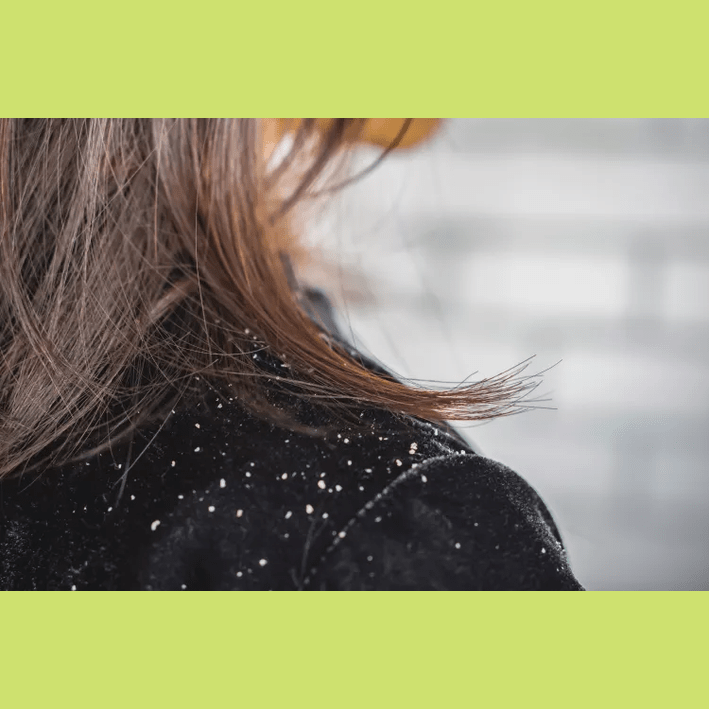
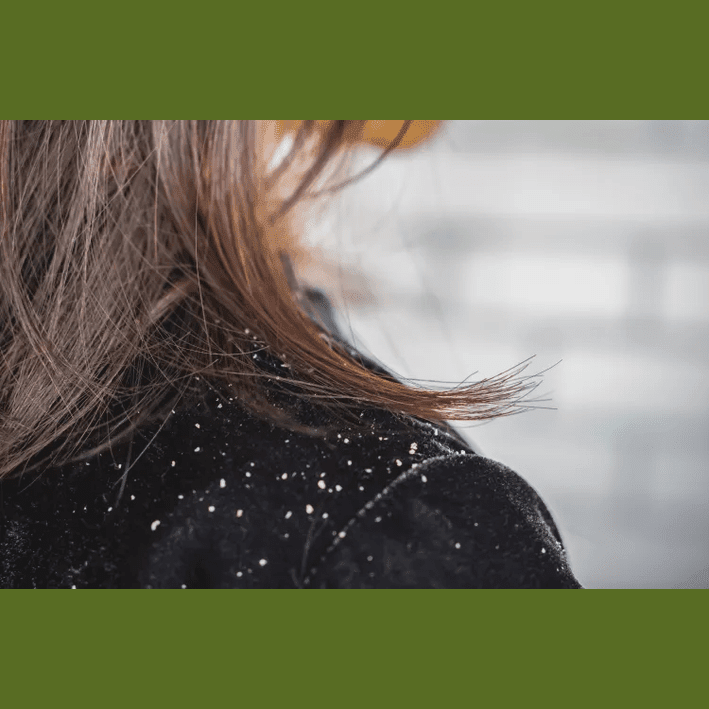
change color

diff --git a/home/selengkapnya.css b/home/selengkapnya.css
@@ -8,9 +8,9 @@
   /*========== Colors ==========*/
   /*Color mode HSL(hue, saturation, lightness)*/
   --first-color: rgba(206, 225, 110, 1);
-  --first-color-dark: rgba(107, 207, 75, 1);
+  --first-color-dark: #85A236;
   --first-color-darken: rgba(66, 95, 49, 1);
-  --first-color-darken2: rgb(75, 139, 1);
+  --first-color-darken2: #586c23;
   --second-color: rgba(255, 231, 135, 1);
   --second-color-dark: rgba(52, 47, 41, 1);
   --white-color: hsl(0, 0%, 100%);
@@ -326,12 +326,12 @@ p {
 .container .card .more {
   position: relative;
   padding: 10px 20px;
-  background: #17e78c;
+  background: var(--first-color-dark);
   margin-top: 15px;
   display: inline-block;
   cursor: pointer;
   text-transform: uppercase;
-  color: #383838;
+  color: #ffffff;
   font-weight: 700;
   letter-spacing: 2px;
   border-radius: 50px;
